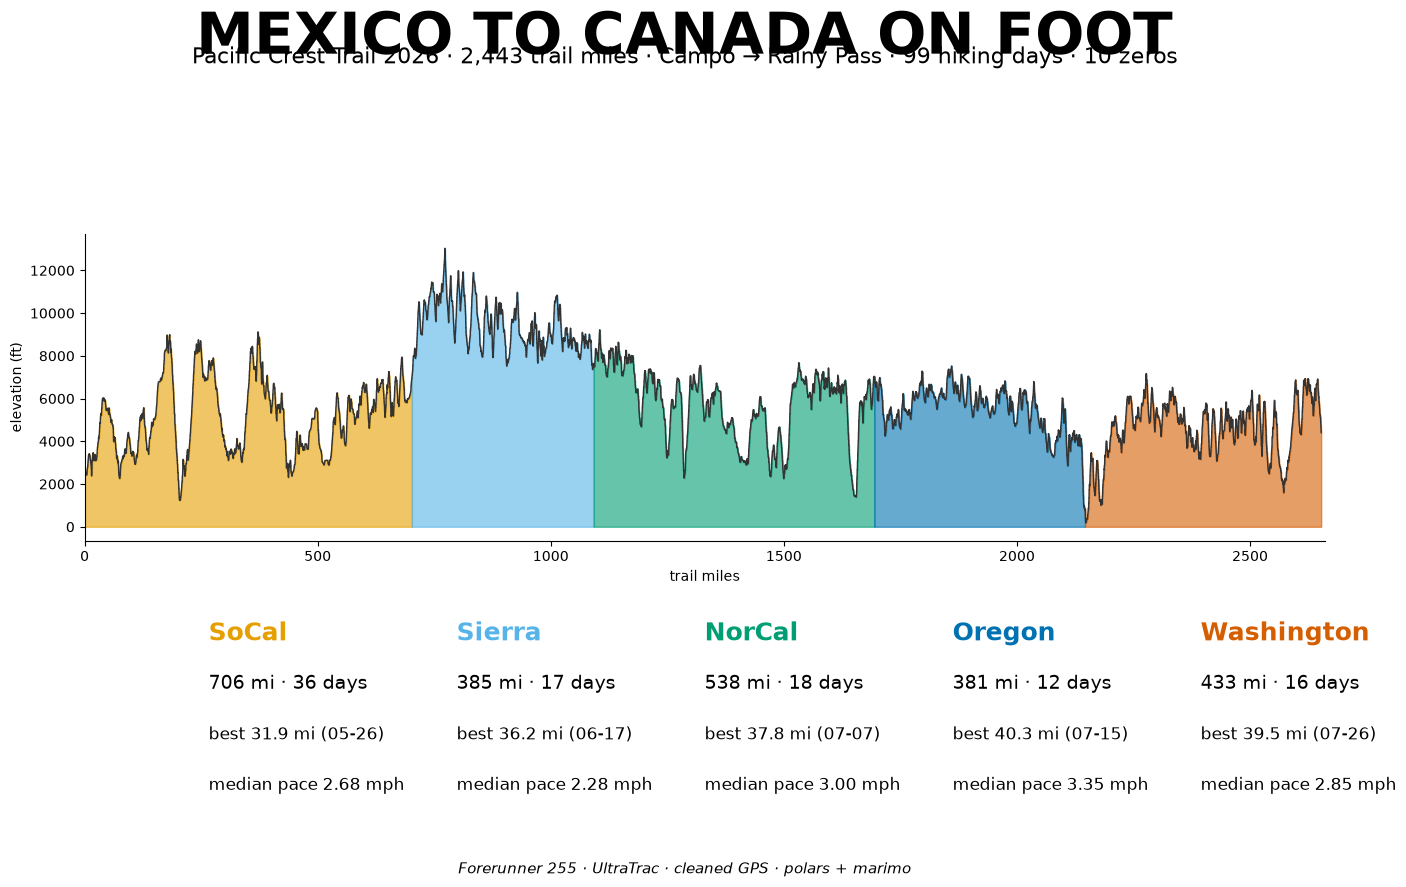
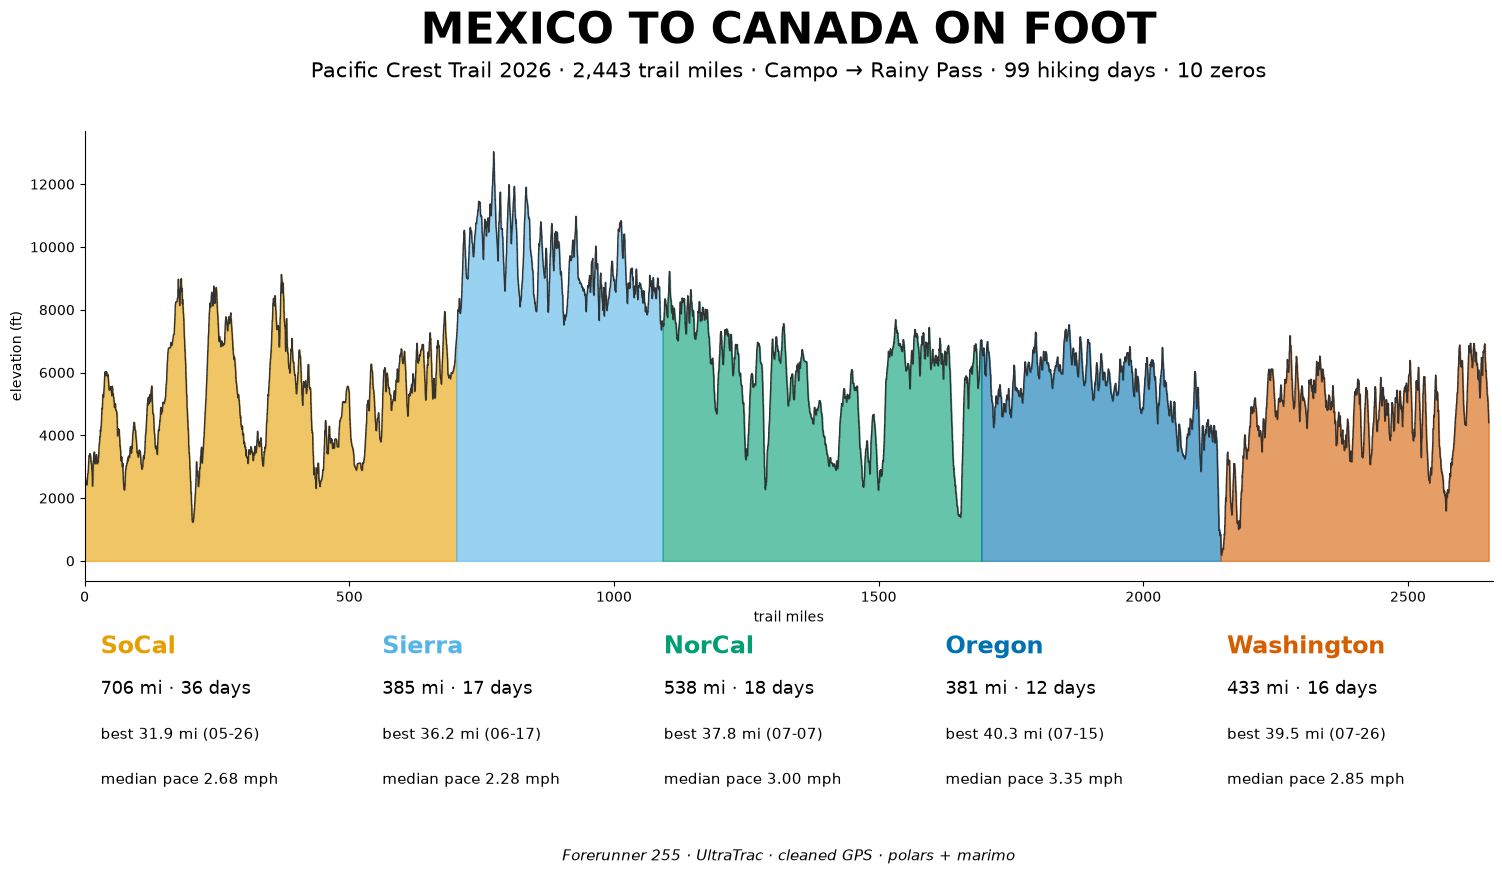
Masthead layout rebuild, title fix

diff --git a/scripts/make_masthead.py b/scripts/make_masthead.py
@@ -31,14 +31,12 @@ def main() -> None:
     mm = np.convolve(mi, np.ones(k) / k, mode="valid")
 
     fig = plt.figure(figsize=(16, 9))
-    gs = fig.add_gridspec(3, 1, height_ratios=[0.35, 1.6, 1.1], hspace=0.35, top=0.88,
-                          bottom=0.08)
-    fig.suptitle("MEXICO TO CANADA ON FOOT", fontsize=42, weight="bold", y=0.98)
-    fig.text(0.5, 0.92, "Pacific Crest Trail 2026 · 2,443 trail miles · "
+    fig.suptitle("MEXICO TO CANADA ON FOOT", fontsize=32, weight="bold", y=0.975)
+    fig.text(0.5, 0.90, "Pacific Crest Trail 2026 · 2,443 trail miles · "
              "Campo → Rainy Pass · 99 hiking days · 10 zeros",
-             ha="center", fontsize=16)
+             ha="center", fontsize=15)
 
-    ax = fig.add_subplot(gs[1])
+    ax = fig.add_axes([0.06, 0.34, 0.88, 0.50])
     for i in range(5):
         m = (mm >= BOUNDS[i]) & (mm <= BOUNDS[i + 1])
         ax.fill_between(mm[m], em[m], alpha=0.6, color=SECC[i])
@@ -49,23 +47,19 @@ def main() -> None:
     for spine in ("top", "right"):
         ax.spines[spine].set_visible(False)
 
-    ag = fig.add_subplot(gs[2])
-    ag.axis("off")
     for i, s in enumerate(SECTIONS):
         sd = daily.filter(pl.col("section") == s)
-        x0 = i / 5
-        ag.text(x0 + 0.1, 0.85, s, fontsize=18, weight="bold", color=SECC[i],
-                transform=ag.transAxes)
-        ag.text(x0 + 0.1, 0.62,
-                f"{sd['net_mi'].sum():.0f} mi · {sd.height} days",
-                fontsize=14, transform=ag.transAxes)
+        x = 0.07 + i * 0.176
+        fig.text(x, 0.26, s, fontsize=17, weight="bold", color=SECC[i])
+        fig.text(x, 0.215, f"{sd['net_mi'].sum():.0f} mi · {sd.height} days",
+                 fontsize=13)
         best = sd.sort("net_mi", descending=True).row(0, named=True)
-        ag.text(x0 + 0.1, 0.38, f"best {best['net_mi']:.1f} mi ({best['date'][5:]})",
-                fontsize=12, transform=ag.transAxes)
-        ag.text(x0 + 0.1, 0.14,
-                f"median pace {sd['pace_mph'].median():.2f} mph",
-                fontsize=12, transform=ag.transAxes)
-    fig.text(0.5, 0.02, "Forerunner 255 · UltraTrac · cleaned GPS · polars + marimo",
+        fig.text(x, 0.165, f"best {best['net_mi']:.1f} mi ({best['date'][5:]})",
+                 fontsize=11)
+        fig.text(x, 0.115,
+                 f"median pace {sd['pace_mph'].median():.2f} mph",
+                 fontsize=11)
+    fig.text(0.5, 0.03, "Forerunner 255 · UltraTrac · cleaned GPS · polars + marimo",
              ha="center", fontsize=11, style="italic")
     fig.savefig(BASE / "masthead.png", bbox_inches="tight")
     print("masthead.png written", flush=True)
